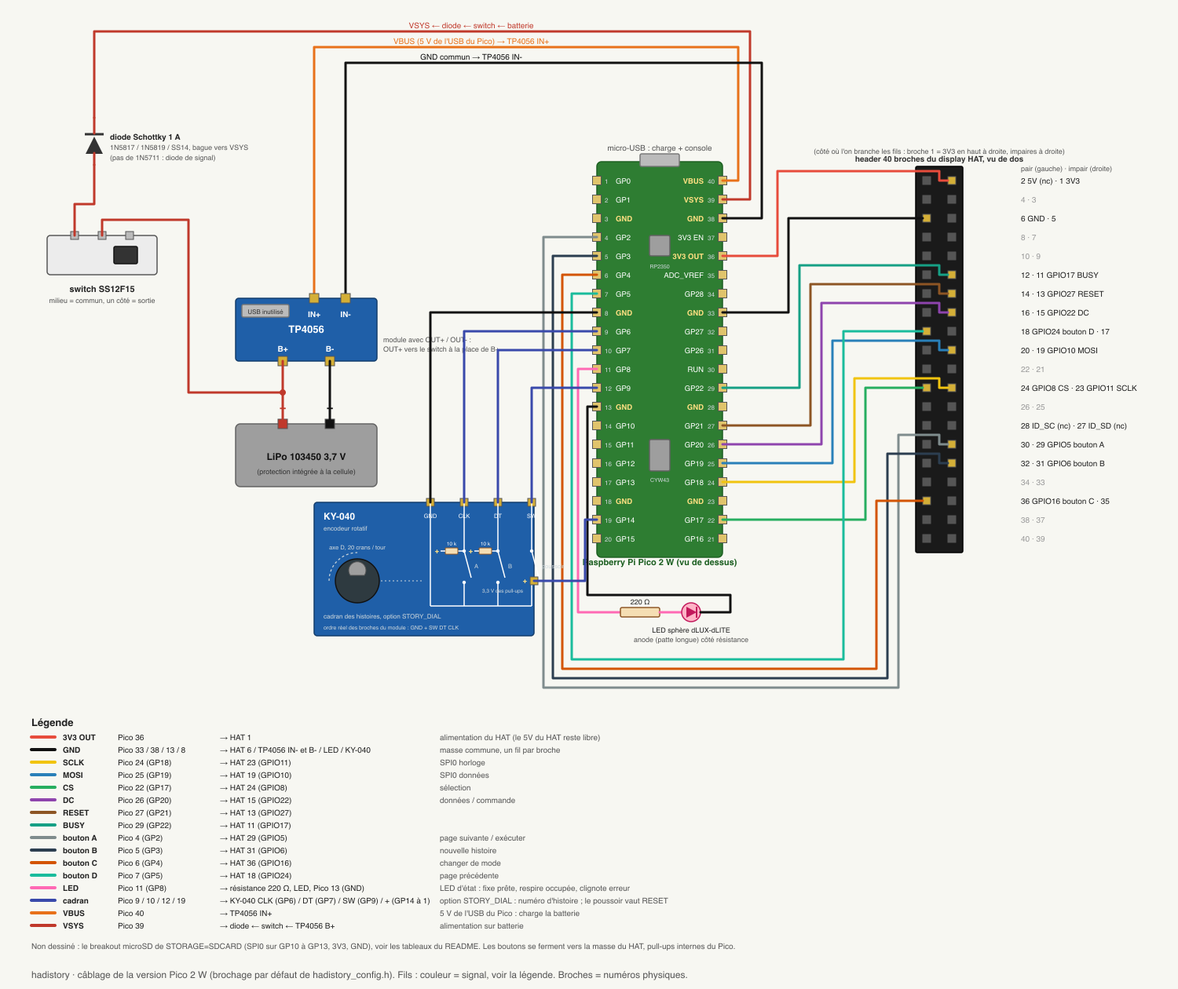
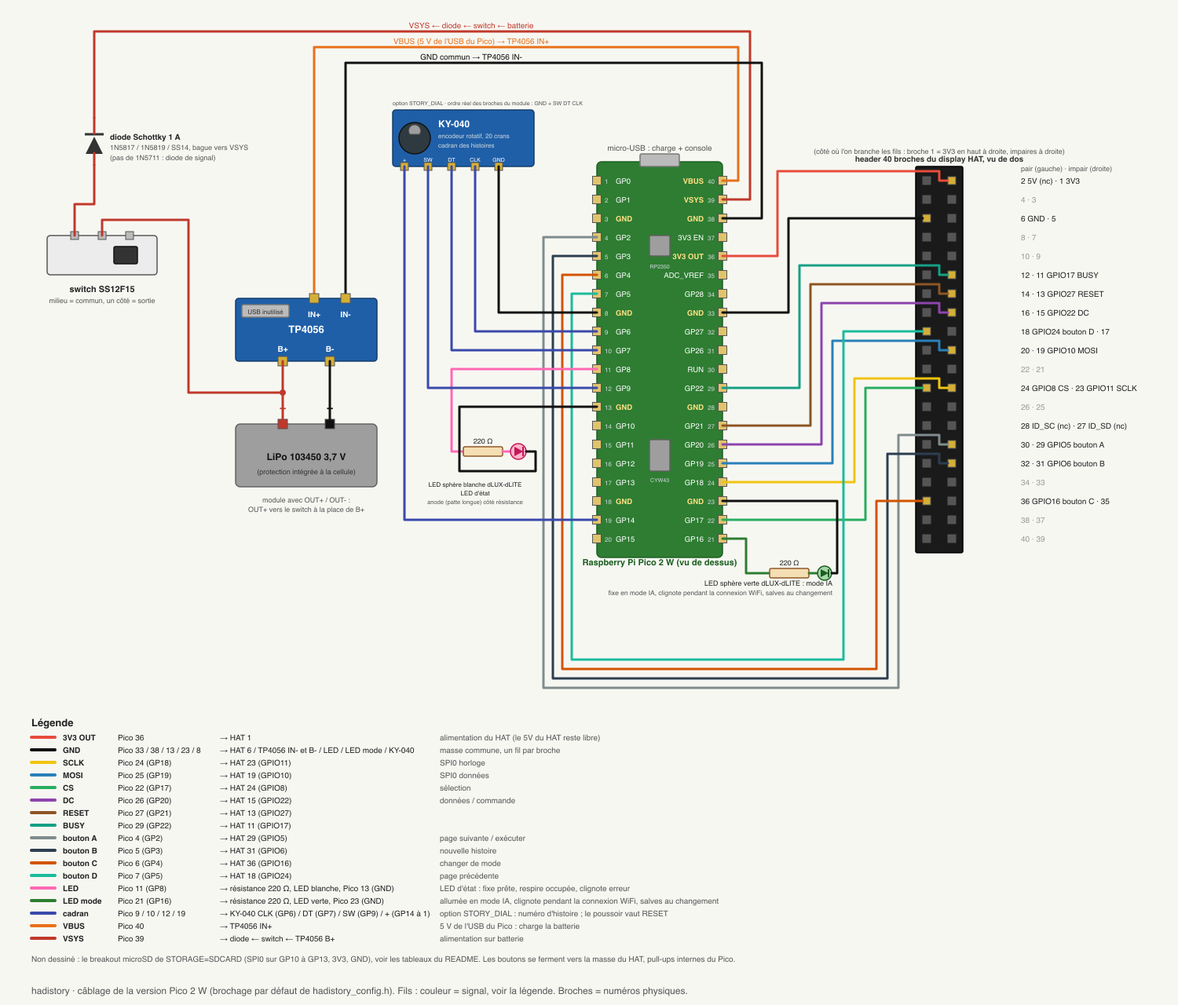
second led functionnal

diff --git a/pico/img/wiring.py b/pico/img/wiring.py
@@ -1,7 +1,7 @@
 # Generates pico/img/wiring.svg: Fritzing-like wiring of the hadistory Pico version.
 import sys
 
-W, H = 1500, 1260
+W, H = 1500, 1280
 out = []
 def add(s): out.append(s)
 
@@ -52,12 +52,12 @@ def pad(x, y, s=12, fill="#d4af37"):
 C = {  # wire colours
     "VBUS": "#e8711a", "VSYS": "#c0392b", "GND": "#111111", "3V3": "#e74c3c",
     "SCLK": "#f1c40f", "MOSI": "#2980b9", "CS": "#27ae60", "DC": "#8e44ad", "RESET": "#8d5524", "BUSY": "#16a085",
-    "A": "#7f8c8d", "B": "#2c3e50", "C": "#d35400", "D": "#1abc9c", "LED": "#ff69b4", "DIAL": "#3949ab", "BAT+": "#c0392b", "BAT-": "#111111",
+    "A": "#7f8c8d", "B": "#2c3e50", "C": "#d35400", "D": "#1abc9c", "LED": "#ff69b4", "LED2": "#2e7d32", "DIAL": "#3949ab", "BAT+": "#c0392b", "BAT-": "#111111",
 }
 
 add(f'<svg xmlns="http://www.w3.org/2000/svg" width="{W}" height="{H}" viewBox="0 0 {W} {H}">')
 add(f'<rect width="{W}" height="{H}" fill="#f7f7f2"/>')
-text(40, 1246, "hadistory · câblage de la version Pico 2 W (brochage par défaut de hadistory_config.h). Fils : couleur = signal, voir la légende. Broches = numéros physiques.", 12, color="#555")
+text(40, 1266, "hadistory · câblage de la version Pico 2 W (brochage par défaut de hadistory_config.h). Fils : couleur = signal, voir la légende. Broches = numéros physiques.", 12, color="#555")
 
 # ---------------------------------------------------------------- Pico 2 W
 rect(PICO_X0, 206, PICO_X1 - PICO_X0, row_y(19) + 24 - 206, "#2e7d32", "#1b5e20", rx=6)
@@ -141,8 +141,8 @@ for x, lbl in ((TP_INP, "IN+"), (TP_INM, "IN-")):
     pad(x, TP_Y0); text(x, TP_Y0 + 24, lbl, 10, "middle", "#fff", "bold")
 for x, lbl in ((TP_BP, "B+"), (TP_BM, "B-")):
     pad(x, TP_Y0 + TP_H); text(x, TP_Y0 + TP_H - 12, lbl, 10, "middle", "#fff", "bold")
-text(TP_X0 + TP_W + 8, TP_Y0 + 56, "module avec OUT+ / OUT- :", 9, "start", "#555")
-text(TP_X0 + TP_W + 8, TP_Y0 + 68, "OUT+ vers le switch à la place de B+", 9, "start", "#555")
+text(390, 640, "module avec OUT+ / OUT- :", 9, "middle", "#555")
+text(390, 652, "OUT+ vers le switch à la place de B+", 9, "middle", "#555")
 
 # Battery
 BAT_Y0 = 540
@@ -174,68 +174,54 @@ text(140, 178, "diode Schottky 1 A", 10, "start", "#222", "bold")
 text(140, 191, "1N5817 / 1N5819 / SS14, bague vers VSYS", 9, "start", "#555")
 text(140, 204, "(pas de 1N5711 : diode de signal)", 9, "start", "#555")
 
-# ---------------------------------------------------------------- status LED on GP8 (pin 11), GND pin 13
+# ---------------------------------------------------------------- status LED (white sphere) on GP8 (pin 11), GND pin 13
 p11 = pico_pin(11); p13 = pico_pin(13)
-wire([(p11[0], p11[1]), (736, p11[1]), (736, 780), (790, 780)], C["LED"])            # GP8 -> resistor
-rect(790, 774, 50, 12, "#f5deb3", "#8d5524", rx=2); text(815, 770, "220 Ω", 9, "middle", "#222")
-wire([(840, 780), (868, 780)], C["LED"])
-add('<circle cx="880" cy="780" r="12" fill="#ffb3c6" stroke="#c2185b" stroke-width="1.5"/>')   # LED
-add('<polygon points="874,773 874,787 887,780" fill="#c2185b"/>'); add('<line x1="887" y1="773" x2="887" y2="787" stroke="#c2185b" stroke-width="2"/>')
-text(880, 806, "LED sphère dLUX-dLITE", 9, "middle", "#222"); text(880, 818, "anode (patte longue) côté résistance", 9, "middle", "#555")
-wire([(892, 780), (930, 780), (930, 758), (748, 758), (748, p13[1]), (p13[0], p13[1])], C["GND"])   # cathode -> GND pin 13
+wire([(p11[0], p11[1]), (575, p11[1]), (575, 575), (590, 575)], C["LED"])            # GP8 -> resistor
+rect(590, 569, 50, 12, "#f5deb3", "#8d5524", rx=2); text(615, 565, "220 Ω", 9, "middle", "#222")
+wire([(640, 575), (650, 575)], C["LED"])
+add('<circle cx="660" cy="575" r="10" fill="#ffb3c6" stroke="#c2185b" stroke-width="1.5"/>')   # LED
+add('<polygon points="655,569 655,581 666,575" fill="#c2185b"/>'); add('<line x1="666" y1="569" x2="666" y2="581" stroke="#c2185b" stroke-width="2"/>')
+wire([(670, 575), (682, 575), (682, 600), (585, 600), (585, p13[1]), (p13[0], p13[1])], C["GND"])   # cathode -> GND pin 13
+text(605, 620, "LED sphère blanche dLUX-dLITE", 8, "middle", "#222"); text(605, 631, "LED d'état", 8, "middle", "#222"); text(605, 642, "anode (patte longue) côté résistance", 7.5, "middle", "#555")
+
+# ---------------------------------------------------------------- mode LED (green sphere) on GP16 (pin 21), GND pin 23
+p21 = pico_pin(21); p23 = pico_pin(23)
+wire([(p21[0], p21[1]), (950, p21[1]), (950, 730), (980, 730)], C["LED2"])             # GP16 -> resistor
+rect(980, 724, 50, 12, "#f5deb3", "#8d5524", rx=2); text(1005, 720, "220 Ω", 9, "middle", "#222")
+wire([(1030, 730), (1040, 730)], C["LED2"])
+add('<circle cx="1050" cy="730" r="9" fill="#a5d6a7" stroke="#1b5e20" stroke-width="1.5"/>')   # LED
+add('<polygon points="1045,725 1045,735 1055,730" fill="#1b5e20"/>'); add('<line x1="1055" y1="725" x2="1055" y2="735" stroke="#1b5e20" stroke-width="2"/>')
+text(1060, 746, "LED sphère verte dLUX-dLITE : mode IA", 9, "end", "#222"); text(1060, 758, "fixe en mode IA, clignote pendant la connexion WiFi, salves au changement", 8.5, "end", "#555")
+wire([(1059, 730), (1066, 730), (1066, p23[1]), (p23[0], p23[1])], C["GND"])              # cathode -> GND pin 23
 
 # ---------------------------------------------------------------- story dial, option STORY_DIAL: KY-040 on GP6 / GP7 / GP9, "+" from GP14, GND pin 8
-# Drawn as a schematic: the D shaft turns two contacts (A = CLK, B = DT) that close to GND, 20 detents a turn;
-# the module adds a 10 k pull-up from each of them to its "+" pin; the push button SW closes to GND (no pull-up).
-KX, KY, KW, KH = 400, 640, 280, 170
+# Above the TP4056, left of the button bundle; pads on the bottom edge in the order that lets the wires
+# from pins 8, 9, 10, 12 nest without crossing each other; "+" (pin 19) comes up on the left.
+KX, KY, KW, KH = 500, 140, 180, 72
 rect(KX, KY, KW, KH, "#1f5fa8", "#123c6b", rx=4)
-text(KX + 12, KY + 22, "KY-040", 12, "start", "#fff", "bold")
-text(KX + 12, KY + 36, "encodeur rotatif", 8, "start", "#cfd8dc")
-# the shaft: knob seen from the top, D flat
-kc = (KX + 55, KY + 100)
-add(f'<circle cx="{kc[0]}" cy="{kc[1]}" r="28" fill="#2e3a40" stroke="#111" stroke-width="1.5"/>')
-add(f'<path d="M{kc[0]-9},{kc[1]-7} A11,11 0 1 1 {kc[0]+9},{kc[1]-7} Z" fill="#9e9e9e" stroke="#555" stroke-width="1"/>')   # D shaft
-add(f'<path d="M{kc[0]-36},{kc[1]} A36,36 0 0 1 {kc[0]},{kc[1]-36}" fill="none" stroke="#cfd8dc" stroke-width="1.2" stroke-dasharray="3,3"/>')
-text(kc[0], kc[1] - 40, "axe D, 20 crans / tour", 7.5, "middle", "#cfd8dc")
-add(f'<line x1="{kc[0]+30}" y1="{kc[1]}" x2="{KX + 140}" y2="{kc[1]}" stroke="#cfd8dc" stroke-width="1" stroke-dasharray="2,3"/>')   # mechanical link
-# pads on the top edge (external wires) and the internal nodes under them
-kp = {"GND": KX + 148, "CLK": KX + 191, "DT": KX + 234, "SW": KX + 277}
+text(KX + 58, KY + 22, "KY-040", 12, "start", "#fff", "bold")
+text(KX + 58, KY + 36, "encodeur rotatif, 20 crans", 8, "start", "#cfd8dc")
+text(KX + 58, KY + 48, "cadran des histoires", 8, "start", "#cfd8dc")
+kc = (KX + 28, KY + 36)                                                        # the knob, D shaft, seen from the top
+add(f'<circle cx="{kc[0]}" cy="{kc[1]}" r="20" fill="#2e3a40" stroke="#111" stroke-width="1.5"/>')
+add(f'<path d="M{kc[0]-6},{kc[1]-5} A7.5,7.5 0 1 1 {kc[0]+6},{kc[1]-5} Z" fill="#9e9e9e" stroke="#555" stroke-width="1"/>')
+kp = {"+": 515, "SW": 545, "DT": 575, "CLK": 605, "GND": 635}
 for lbl, x in kp.items():
-    pad(x, KY, 10); text(x, KY + 20, lbl, 7.5, "middle", "#fff")
-GY = KY + 132                                                                  # GND bus
-add(f'<line x1="{kp["GND"]}" y1="{KY}" x2="{kp["GND"]}" y2="{GY}" stroke="#fff" stroke-width="1.5"/>')
-add(f'<line x1="{kp["GND"]}" y1="{GY}" x2="{kp["SW"]}" y2="{GY}" stroke="#fff" stroke-width="1.5"/>')
-for lbl, name in (("CLK", "A"), ("DT", "B"), ("SW", "poussoir")):
-    x = kp[lbl]; ny = KY + 62                                                  # node under the pad
-    add(f'<line x1="{x}" y1="{KY}" x2="{x}" y2="{ny}" stroke="#fff" stroke-width="1.5"/>')
-    add(f'<circle cx="{x}" cy="{ny}" r="2.2" fill="#fff"/>')
-    add(f'<line x1="{x}" y1="{ny}" x2="{x + 9}" y2="{ny + 34}" stroke="#fff" stroke-width="1.5"/>')     # contact blade, open
-    add(f'<line x1="{x}" y1="{ny + 40}" x2="{x}" y2="{GY}" stroke="#fff" stroke-width="1.5"/>')
-    add(f'<circle cx="{x}" cy="{ny + 40}" r="2.2" fill="#fff"/>')
-    text(x + 13, ny + 22, name, 7.5, "start", "#cfd8dc")
-    if lbl != "SW":                                                            # 10 k pull-up to "+", drawn as a stub with a flag
-        add(f'<line x1="{x}" y1="{ny}" x2="{x - 8}" y2="{ny}" stroke="#fff" stroke-width="1.5"/>')
-        rect(x - 24, ny - 4, 16, 8, "#f5deb3", "#8d5524", rx=1, sw=1)
-        add(f'<line x1="{x - 24}" y1="{ny}" x2="{x - 30}" y2="{ny}" stroke="#fff" stroke-width="1.5"/>')
-        text(x - 32, ny + 3, "+", 9, "end", "#ffe082", "bold")
-        text(x - 16, ny - 7, "10 k", 6.5, "middle", "#fff")
-pad(KX + KW, KY + 100, 10); text(KX + KW - 9, KY + 103, "+", 9, "end", "#ffe082", "bold")               # "+" pad, right edge
-text(KX + KW - 14, KY + 115, "3,3 V des pull-ups", 6.5, "end", "#cfd8dc")
-text(KX + 12, KY + KH - 22, "cadran des histoires, option STORY_DIAL", 8, "start", "#cfd8dc")
-text(KX + 12, KY + KH - 8, "ordre réel des broches du module : GND  +  SW  DT  CLK", 7, "start", "#cfd8dc")
+    pad(x, KY + KH, 10); text(x, KY + KH - 6, lbl, 7, "middle", "#fff")
+text(KX, KY - 6, "option STORY_DIAL · ordre réel des broches du module : GND + SW DT CLK", 7, "start", "#555")
 p8 = pico_pin(8); p9 = pico_pin(9); p10 = pico_pin(10); p12 = pico_pin(12); p19 = pico_pin(19)
-wire([(p8[0], p8[1]), (kp["GND"], p8[1]), (kp["GND"], KY)], C["GND"])                       # GND pin 8
-wire([(p9[0], p9[1]), (kp["CLK"], p9[1]), (kp["CLK"], KY)], C["DIAL"])                      # CLK GP6
-wire([(p10[0], p10[1]), (kp["DT"], p10[1]), (kp["DT"], KY)], C["DIAL"])                     # DT GP7
-wire([(p12[0], p12[1]), (kp["SW"], p12[1]), (kp["SW"], KY)], C["DIAL"])                     # SW GP9
-wire([(p19[0], p19[1]), (745, p19[1]), (745, KY + 100), (KX + KW, KY + 100)], C["DIAL"])   # "+" from GP14 (pin 19), driven high
+wire([(p8[0], p8[1]), (kp["GND"], p8[1]), (kp["GND"], KY + KH)], C["GND"])                 # GND pin 8
+wire([(p9[0], p9[1]), (kp["CLK"], p9[1]), (kp["CLK"], KY + KH)], C["DIAL"])                # CLK GP6
+wire([(p10[0], p10[1]), (kp["DT"], p10[1]), (kp["DT"], KY + KH)], C["DIAL"])               # DT GP7
+wire([(p12[0], p12[1]), (kp["SW"], p12[1]), (kp["SW"], KY + KH)], C["DIAL"])               # SW GP9
+wire([(p19[0], p19[1]), (kp["+"], p19[1]), (kp["+"], KY + KH)], C["DIAL"])                 # "+" from GP14 (pin 19), driven high
 
 # ---------------------------------------------------------------- legend
 LX, LY = 40, 925
 text(LX, LY, "Légende", 13, "start", "#222", "bold")
 rows = [
     ("3V3", "3V3 OUT", "Pico 36", "HAT 1", "alimentation du HAT (le 5V du HAT reste libre)"),
-    ("GND", "GND", "Pico 33 / 38 / 13 / 8", "HAT 6 / TP4056 IN- et B- / LED / KY-040", "masse commune, un fil par broche"),
+    ("GND", "GND", "Pico 33 / 38 / 13 / 23 / 8", "HAT 6 / TP4056 IN- et B- / LED / LED mode / KY-040", "masse commune, un fil par broche"),
     ("SCLK", "SCLK", "Pico 24 (GP18)", "HAT 23 (GPIO11)", "SPI0 horloge"),
     ("MOSI", "MOSI", "Pico 25 (GP19)", "HAT 19 (GPIO10)", "SPI0 données"),
     ("CS", "CS", "Pico 22 (GP17)", "HAT 24 (GPIO8)", "sélection"),
@@ -246,7 +232,8 @@ rows = [
     ("B", "bouton B", "Pico 5 (GP3)", "HAT 31 (GPIO6)", "nouvelle histoire"),
     ("C", "bouton C", "Pico 6 (GP4)", "HAT 36 (GPIO16)", "changer de mode"),
     ("D", "bouton D", "Pico 7 (GP5)", "HAT 18 (GPIO24)", "page précédente"),
-    ("LED", "LED", "Pico 11 (GP8)", "résistance 220 Ω, LED, Pico 13 (GND)", "LED d'état : fixe prête, respire occupée, clignote erreur"),
+    ("LED", "LED", "Pico 11 (GP8)", "résistance 220 Ω, LED blanche, Pico 13 (GND)", "LED d'état : fixe prête, respire occupée, clignote erreur"),
+    ("LED2", "LED mode", "Pico 21 (GP16)", "résistance 220 Ω, LED verte, Pico 23 (GND)", "allumée en mode IA, clignote pendant la connexion WiFi, salves au changement"),
     ("DIAL", "cadran", "Pico 9 / 10 / 12 / 19", "KY-040 CLK (GP6) / DT (GP7) / SW (GP9) / + (GP14 à 1)", "option STORY_DIAL : numéro d'histoire ; le poussoir vaut RESET"),
     ("VBUS", "VBUS", "Pico 40", "TP4056 IN+", "5 V de l'USB du Pico : charge la batterie"),
     ("VSYS", "VSYS", "Pico 39", "diode ← switch ← TP4056 B+", "alimentation sur batterie"),

diff --git a/pico/src/led.cpp b/pico/src/led.cpp
@@ -142,7 +142,57 @@ static void bursts(int count, int on_ms, int off_ms) {
 
 #endif  // HADISTORY_LED_CYW43
 
-// Patterns of hadistory.py, whatever the LED
+// Error pattern of hadistory.py, whatever the status LED
 void led_rapid_blink(void)       { bursts(19, 100, 100); }
-void led_five_short_bursts(void) { bursts(5, 250, 250); }
-void led_three_long_bursts(void) { bursts(3, 800, 800); }
+
+// ============================================================================
+// Mode LED: a plain GPIO, 2 Hz blink on a hardware timer while the WiFi is joined
+// ============================================================================
+static repeating_timer_t mode_timer;
+static volatile bool mode_blinking = false;
+static bool mode_state = false;
+
+static bool mode_tick(repeating_timer_t *t) {
+    (void)t;
+    if (!mode_blinking) return false;
+    mode_state = !mode_state;
+    gpio_put(MODE_LED_PIN, mode_state);
+    return true;
+}
+
+void led_mode_init(void) {
+    gpio_init(MODE_LED_PIN);
+    gpio_set_dir(MODE_LED_PIN, GPIO_OUT);
+    gpio_put(MODE_LED_PIN, false);
+}
+
+void led_mode_set(bool ai) {
+    if (mode_blinking) {
+        mode_blinking = false;
+        cancel_repeating_timer(&mode_timer);
+    }
+    mode_state = ai;
+    gpio_put(MODE_LED_PIN, ai);
+}
+
+// Bursts of hadistory.py at a mode change, on the mode LED: three_long_burst (AI) /
+// five_short_burst (story), blocking like the Python, then the steady state of the new mode.
+void led_mode_announce(bool ai) {
+    led_mode_set(false);
+    int count = ai ? 3 : 5, ms = ai ? 800 : 250;
+    for (int i = 0; i < count; i++) {
+        gpio_put(MODE_LED_PIN, true);
+        sleep_ms(ms);
+        gpio_put(MODE_LED_PIN, false);
+        sleep_ms(ms);
+    }
+    led_mode_set(ai);
+}
+
+void led_mode_blink_start(void) {
+    if (mode_blinking) return;
+    mode_blinking = true;
+    mode_state = true;
+    gpio_put(MODE_LED_PIN, true);
+    add_repeating_timer_ms(250, mode_tick, NULL, &mode_timer);
+}

diff --git a/pico/src/led.h b/pico/src/led.h
@@ -1,10 +1,12 @@
-/* Status LED (white sphere), the patterns of hadistory.py:
+/* Two sphere LEDs, one question each.
+ * Status LED (white, LED_PIN): activity only
  *   solid on   : waiting for a button press
  *   breathing  : busy (generating / displaying), driven by a hardware timer, no thread
- *   rapid blink: error (blocking)
- *   3 long bursts  : switched to AI mode (also at a cold boot in that mode)
- *   5 short bursts : switched to story mode
- * The mode itself is readable on the page: a robot badge top-left on the AI pages.
+ *   rapid blink: error (blocking, as in hadistory.py)
+ * Mode LED (green, MODE_LED_PIN): on in AI mode, off in story mode, 2 Hz blink while the WiFi
+ *   is being joined for a switch to AI mode. At a mode change (and at a cold boot) it first plays
+ *   the bursts of hadistory.py, 3 long = AI, 5 short = story, then settles. The status LED never
+ *   says anything about the mode; the page shows it too (robot badge top-left on the AI pages).
  */
 #ifndef HADISTORY_LED_H
 #define HADISTORY_LED_H
@@ -17,7 +19,10 @@ void led_off(void);
 void led_breathe_start(void);   // fade in/out until led_breathe_stop()
 void led_breathe_stop(void);    // leaves the LED off
 void led_rapid_blink(void);         // error
-void led_five_short_bursts(void);   // story mode
-void led_three_long_bursts(void);   // AI mode
+
+void led_mode_init(void);
+void led_mode_set(bool ai);          // steady: on = AI mode (stops a blink)
+void led_mode_announce(bool ai);     // mode change: 3 long bursts (AI) or 5 short (story), blocking, then steady
+void led_mode_blink_start(void);     // joining the WiFi for the switch to AI mode
 
 #endif

diff --git a/pico/main.cpp b/pico/main.cpp
@@ -50,10 +50,10 @@ static void save_settings(void) {
     }
 }
 
-// Same bursts as hadistory.py: 3 long = AI mode, 5 short = story mode
+// The mode LED says it: bursts of hadistory.py (3 long = AI, 5 short = story), then on = AI mode
 static void announce_mode(void) {
     puts(settings.ai_mode ? "Switching to AI mode." : "Switching to local story mode.");
-    if (settings.ai_mode) led_three_long_bursts(); else led_five_short_bursts();
+    led_mode_announce(settings.ai_mode);
 }
 
 static void wait_for_press(void) {
@@ -98,6 +98,7 @@ int main(void) {
 #endif
 
     led_init();
+    led_mode_init();
     buttons_init();
     display_init();
 #if HADISTORY_BATTERY
@@ -180,6 +181,7 @@ int main(void) {
 #if HADISTORY_DEEP_SLEEP
         if (wake_button < BUTTON_COUNT) buttons_inject_press(wake_button);   // act on the button that woke us
 #endif
+        led_mode_set(settings.ai_mode);   // no announcement on a wake-up, just the state
     } else {
         announce_mode();
     }
@@ -221,6 +223,7 @@ int main(void) {
             } else if (wifi == WIFI_FAILED) {
                 ai_switch_pending = false;
                 puts("AI mode refused: no WiFi. Staying in story mode.");
+                led_mode_set(false);
                 led_breathe_stop();
                 led_rapid_blink();
                 led_on();
@@ -292,6 +295,7 @@ int main(void) {
                 ai_switch_pending = true;
                 gpt_wifi_connect();   // no-op if already connecting
                 led_breathe_start();
+                led_mode_blink_start();
             }
 #else
             puts("AI mode not available in this build.");

diff --git a/pico/src/hadistory_config.h b/pico/src/hadistory_config.h
@@ -69,8 +69,9 @@
     #define BUTTON_PIN_RESET     3
     #define BUTTON_PIN_MODE      4
     #define BUTTON_PIN_BACK      5
-    // Status LED (PWM capable)
+    // Status LED (PWM capable, white sphere) and the mode LED (plain GPIO, green sphere: on in AI mode)
     #define LED_PIN              8
+    #define MODE_LED_PIN         16
     // Story dial (STORY_DIAL=ON): KY-040 CLK / DT, its push button (a second RESET), and a GPIO
     // driven high as the module's "+" (feeds only its two 10 k pull-ups): the whole dial sits on five
     // neighbouring pins of the left column, no second wire on 3V3 OUT. -1 = wire "+" to 3V3 instead.
@@ -96,6 +97,7 @@
     #define BUTTON_PIN_MODE      4
     #define BUTTON_PIN_BACK      5
     #define LED_PIN              8
+    #define MODE_LED_PIN         16
     #define DIAL_PIN_CLK         6
     #define DIAL_PIN_DT          7
     #define DIAL_PIN_SW          9

diff --git a/pico/README.md b/pico/README.md
@@ -20,7 +20,7 @@ Scope compared to the Pi version:
 | Deep sleep between pages (`DEEP_SLEEP=ON`) | Working on the Pico 2 W: RP2350 power manager, wake-up and action on the button that woke the board |
 | Battery operation | To be tested, see Power |
 | Battery gauge (`BATTERY_GAUGE=ON`) | Calibrated on the prototype (ADC scale and diode drop measured, 2026-10-21); bars to check against the cell voltage |
-| Robot badge | Written, to be tested: robot top-left of the AI pages |
+| Mode LED and robot badge | Written, to be tested: green sphere on in AI mode, bursts at a mode change, robot top-left of the AI pages |
 | Story dial (`STORY_DIAL=ON`) | Written, to be tested: KY-040 on GP6 / GP7 / GP9, story number in the page counter |
 
 ## Use
@@ -40,9 +40,9 @@ Waiting for next button press...
 | A, execute | Next page; when none is running or the last page was shown, starts a story: at random, or the one under the dial with `STORY_DIAL=ON` | Generates and shows a new page |
 | D, go back | Previous page | — |
 | B, reset | Forgets the current story, the next A starts a new one. With `STORY_DIAL=ON` the push button of the dial does the same, and both re-arm the dial at 1 | Same |
-| C, change mode | Starts the WiFi connection if needed (LED breathing), then switches to AI mode: 3 long bursts; if the network cannot be joined within 30 s the switch is refused with the error blink | Switches to story mode: 5 short bursts |
+| C, change mode | Starts the WiFi connection if needed (status LED breathing, mode LED blinking), then switches to AI mode: 3 long bursts on the mode LED, which then stays on; if the network cannot be joined within 30 s the switch is refused with the error blink and the mode LED goes off | Switches to story mode: 5 short bursts on the mode LED, which then stays off |
 
-LED patterns, those of the Pi version: solid = waiting for a press, breathing (or 1 Hz blink on the Pico 2 W onboard LED) = working, including the 30 s refresh of the panel, 19 rapid blinks = error, 3 long bursts (0.8 s) = switched to AI mode, 5 short bursts (0.25 s) = switched to story mode (both also at a cold boot, for the mode restored), off = asleep. A second LED for the mode was considered and dropped: its tube in the chin of the enclosure blocked the Dupont housings on the Pico's first pins. On the page itself, the story mode shows its page counter top-left and the AI mode a blue robot at the same place, so the mode is readable even with the board asleep. In story mode the core is powered off 20 seconds after the last press (`DEEP_SLEEP=ON`, the default, `IDLE_BEFORE_SLEEP_MS`); any button powers it up again, which is a reboot of about a second, and the firmware then acts on that button without the start-up delay and announcement. The AI mode stays awake to keep its WiFi link. The current story, page and mode are saved after each action, in `/currently.txt` on the card or in the last flash sector, and restored at boot. Without `WITH_GPT`, button C only prints "AI mode not available in this build".
+Two sphere LEDs, one question each. Status LED (white, left of the chin): solid = waiting for a press, breathing (or 1 Hz blink on the Pico 2 W onboard LED) = working, including the 30 s refresh of the panel, 19 rapid blinks = error, off = asleep. Mode LED (green, right of the chin): on = AI mode, off = story mode, blinking = joining the WiFi after a press on C; it goes off again if the network cannot be joined (with the error blink on the status LED). At a mode change, and at a cold boot, it first plays the bursts of the Pi version, 3 long (0.8 s) for AI or 5 short (0.25 s) for story, then settles; the status LED never bursts for the mode. On the page itself, the story mode shows its page counter top-left and the AI mode a blue robot at the same place, so the mode is readable even with the board asleep. In story mode the core is powered off 20 seconds after the last press (`DEEP_SLEEP=ON`, the default, `IDLE_BEFORE_SLEEP_MS`); any button powers it up again, which is a reboot of about a second, and the firmware then acts on that button without the start-up delay and announcement. The AI mode stays awake to keep its WiFi link. The current story, page and mode are saved after each action, in `/currently.txt` on the card or in the last flash sector, and restored at boot. Without `WITH_GPT`, button C only prints "AI mode not available in this build".
 
 Story dial (`STORY_DIAL=ON`): a KY-040 rotary encoder on the left edge of the enclosure, a thumbwheel with the numbers 1 to 12 on its rim (`DIAL_POSITIONS`) and an arrow on the case, see `case/README.md`. Printed end stops limit the wheel to 11 detents; the firmware counts the detents by interrupt while awake and saturates at 1 and 12, so the stops are the reference of an otherwise incremental encoder. Nothing counts during the deep sleep, by choice (battery life), so the ritual re-arms it: turn the wheel down to the stop, press the wheel (or B), which wakes the board, forgets the story and sets the dial to 1, turn up to the number under the arrow, press A: that story starts at page 1, and its number is shown before the page counter top-left (`3: 1/9`). While a story is being read the wheel changes nothing; at the end of a story, A starts the one under the arrow again (no more random pick: the AI mode is the random one). Each counted detent blinks the status LED off for 20 ms (`DIAL_BLIP_MS`): no blink means the wheel is past a stop in the firmware's count, i.e. desynchronised, and the ritual fixes it. Stories are ordered by the number at the end of their folder name (`story_2` before `story_10`); a wheel position beyond the catalogue gives the last story. The push button of the dial takes the wake-up slot of button B, which then only works awake (the RP2350 has four wake-up slots). In AI mode the dial is ignored for now.
 
@@ -60,6 +60,7 @@ pico/
     ├── hadistory_config.h  pins per board, display geometry, behaviour constants
     ├── led.cpp/.h          status LED: solid = waiting, breathing = busy (timer driven), rapid blink = error,
     │                       external GPIO (PWM) or onboard LED, including the cyw43-driven one of the Pico 2 W;
+    │                       mode LED: plain GPIO, on in AI mode, bursts at a mode change, blinking while the WiFi is joined
     ├── buttons.cpp/.h      4 active-low buttons, edge detection (the dial push button counts as RESET)
     ├── dial.cpp/.h         STORY_DIAL: KY-040 quadrature decoding by interrupt, position 1..12 saturated at the printed stops
     ├── display.cpp/.h      PicoGraphics 3-bit frame buffer + Pimoroni UC8159 driver; the only path to the panel
@@ -130,9 +131,9 @@ Build-time options:
 
 ![Wiring of the Pico version](img/wiring.png)
 
-*Everything on one picture: display HAT header, buttons, status LED, story dial (option), TP4056, battery, switch and diode (`img/wiring.svg`, generated by `img/wiring.py`). The HAT header is drawn as seen from the back of the HAT, the side the wires plug into: pin 1 (3V3) top right, odd pins on the right column. The microSD breakout of `STORAGE=SDCARD` is not drawn.*
+*Everything on one picture: display HAT header, buttons, status and mode LEDs, story dial (option), TP4056, battery, switch and diode (`img/wiring.svg`, generated by `img/wiring.py`). The HAT header is drawn as seen from the back of the HAT, the side the wires plug into: pin 1 (3V3) top right, odd pins on the right column. The microSD breakout of `STORAGE=SDCARD` is not drawn.*
 
-Physical pin numbers are those of the 40-pin headers: the Raspberry Pi header of the display HAT (the Inky Impression), and the Pico header (the Pico Plus 2 keeps the Pico layout for pins 1 to 40). Any Pico GND pin does for any ground; the ones below keep one wire per pin: 33 for the HAT, 38 for the TP4056, 13 for the status LED, 8 for the dial. The "Display HAT GPIO" column is the Raspberry Pi GPIO number the HAT expects on that pin, as in the Pimoroni pinout; it is only there to find your way on the HAT, nothing on the Pico uses it.
+Physical pin numbers are those of the 40-pin headers: the Raspberry Pi header of the display HAT (the Inky Impression), and the Pico header (the Pico Plus 2 keeps the Pico layout for pins 1 to 40). Any Pico GND pin does for any ground; the ones below keep one wire per pin: 33 for the HAT, 38 for the TP4056, 13 for the status LED, 23 for the mode LED, 8 for the dial. The "Display HAT GPIO" column is the Raspberry Pi GPIO number the HAT expects on that pin, as in the Pimoroni pinout; it is only there to find your way on the HAT, nothing on the Pico uses it.
 
 Power. The display HAT runs from 3V3 alone: its 5V pin only feeds its small expansion header (Pimoroni schematic), so it can stay unconnected. That is what makes battery operation simple.
 
@@ -168,6 +169,10 @@ Status LED, external as on the Pi version (`STATUS_LED=EXTERNAL`, the default). 
 |---|---|---|
 | Status LED anode through a 220 ohm resistor | GP8 | 11 |
 | Status LED cathode | GND | 13 |
+| Mode LED (green sphere) anode through a 220 ohm resistor | GP16 | 21 |
+| Mode LED cathode | GND | 23 |
+
+The mode LED is a plain on/off output (`MODE_LED_PIN`); apart from the bursts at a mode change it is lit in AI mode only, when the board is awake with the WiFi anyway, so it costs nothing in story mode.
 
 Story dial, `STORY_DIAL=ON` only (KY-040 module, its pins in the order GND, +, SW, DT, CLK):
 
